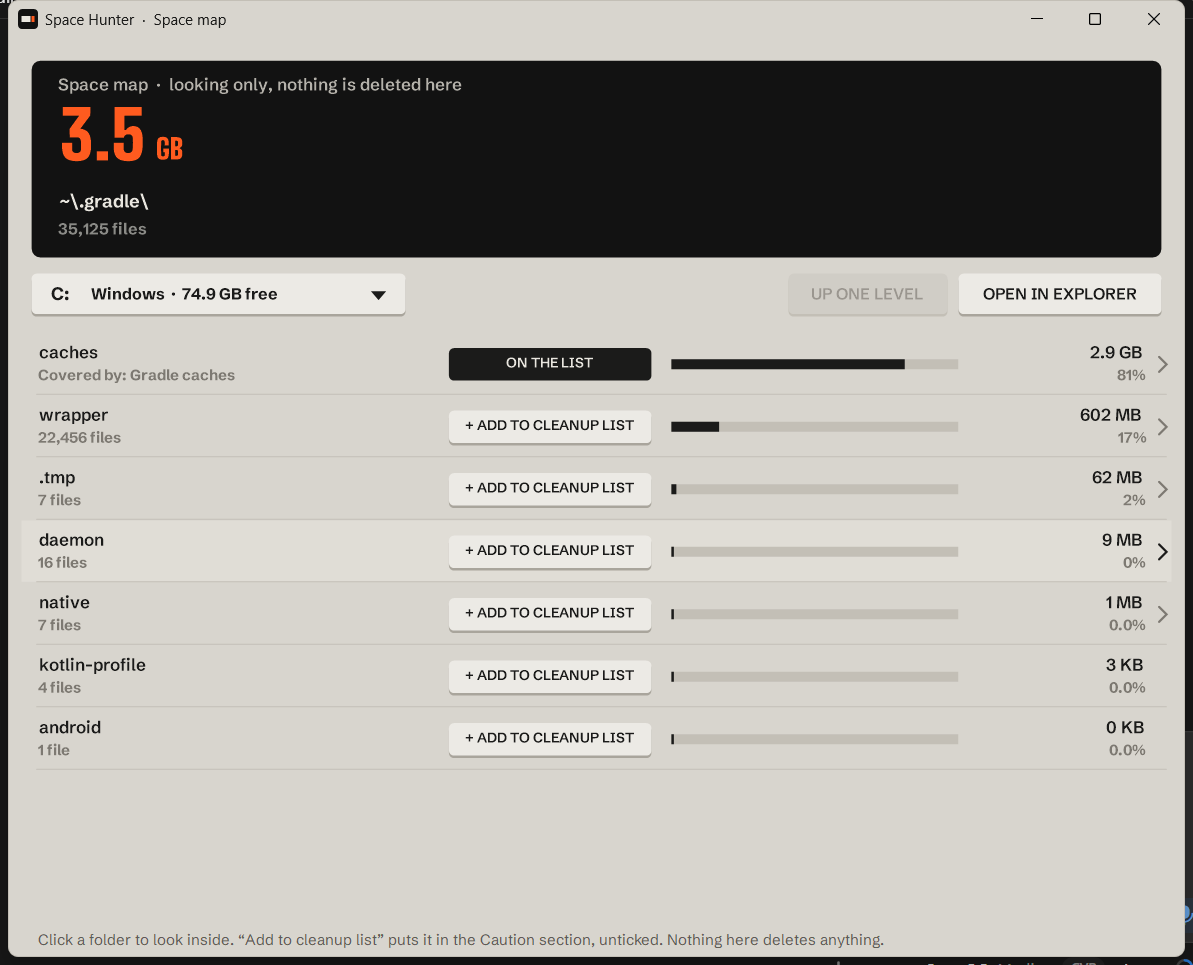
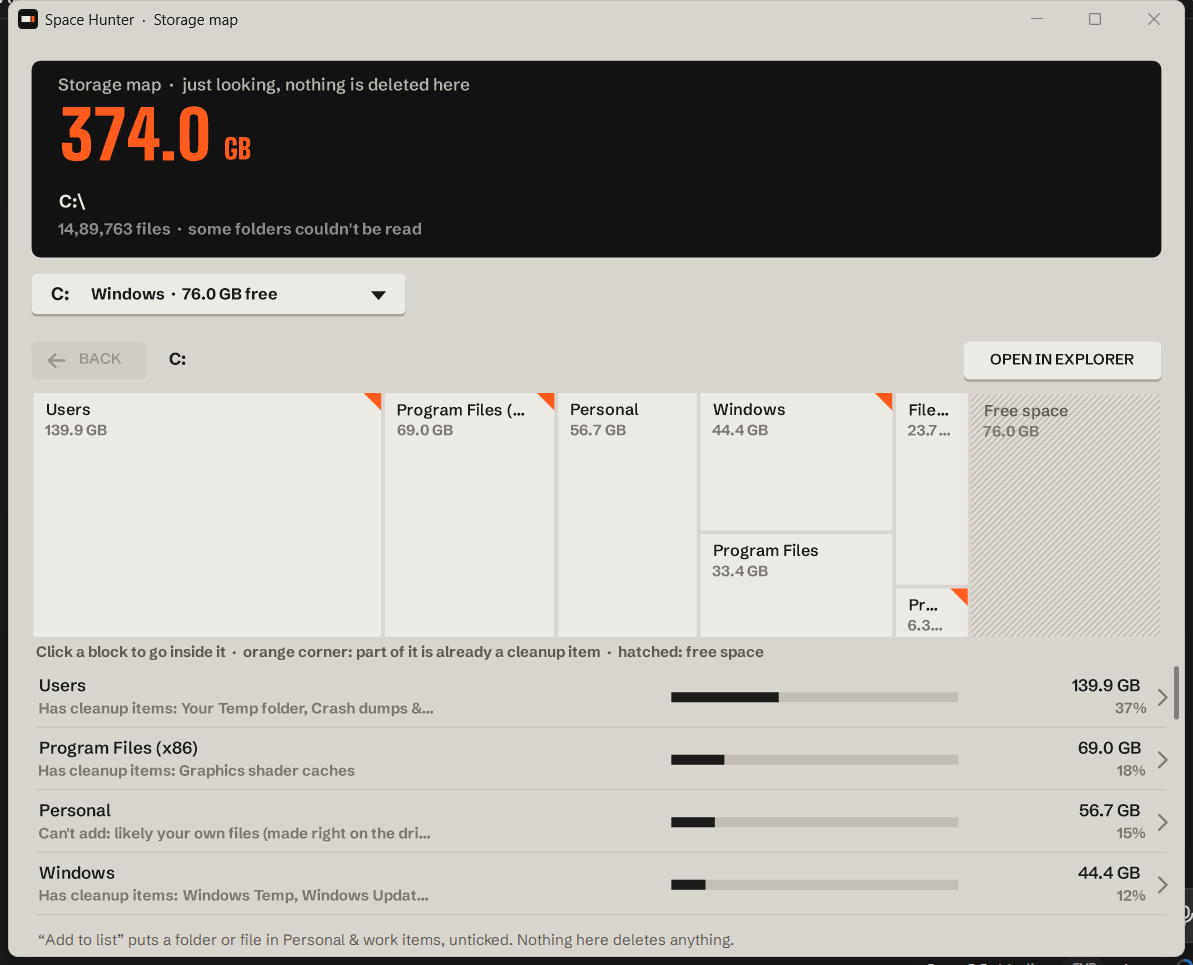
Open in Explorer / Finder / Files sits in the folder trail; README: current screenshots and Linux; dependency lock for Nix

diff --git a/mac/Sources/SpaceHunter.swift b/mac/Sources/SpaceHunter.swift
@@ -1597,7 +1597,6 @@ struct FinderView: View {
                 .disabled(scanner.running)
                 .anchorPreference(key: DriveKeyAnchor.self, value: .bounds) { $0 }
                 Spacer()
-                Button("Show in Finder") { if let c = current { NSWorkspace.shared.open(URL(fileURLWithPath: c.path)) } }.buttonStyle(KeyStyle()).disabled(current == nil)
             }
             if let c = current {
                 let isAdded = added.contains(c.path) || Custom.all.contains(c.path)
@@ -1622,7 +1621,7 @@ struct FinderView: View {
             } else {
                 Spacer()
             }
-            Text("\u{201C}Add to cleanup list\u{201D} puts a folder in Personal & work items, unticked. Nothing here deletes anything.")
+            Text("\u{201C}Add to list\u{201D} puts a folder or file in Personal & work items, unticked. Nothing here deletes anything.")
                 .font(Theme.sans(12)).foregroundColor(Theme.muted)
         }
         .padding(18).frame(minWidth: 760, minHeight: 520).background(Theme.chassis)
@@ -1735,6 +1734,8 @@ struct PathBar: View {
             if canAdd || isAdded {
                 Button(isAdded ? "Added  ·  remove" : "+ Add this folder") { toggle() }.buttonStyle(KeyStyle(toggled: isAdded))
             }
+            // open the folder you're looking at, beside its name in the trail
+            Button("Show in Finder") { NSWorkspace.shared.open(URL(fileURLWithPath: node.path)) }.buttonStyle(KeyStyle())
         }
     }
     func trail() -> [FolderNode] { var c: [FolderNode] = []; var n: FolderNode? = node; while let x = n { c.insert(x, at: 0); n = x.parent }; return c }

diff --git a/windows/src/Finder.cs b/windows/src/Finder.cs
@@ -47,17 +47,16 @@ namespace SpaceHunter
             headWrap.Controls.Add(head);
             var keys = new Panel { Dock = DockStyle.Top, Height = Theme.D(60), BackColor = Theme.Chassis };
             driveKey.Location = Theme.P(18, 12);
-            keys.Controls.Add(driveKey); keys.Controls.Add(openKey);   // going up lives in the path bar, right above the chart
-            keys.Resize += (s, e) => openKey.Location = new Point(keys.Width - openKey.Width - Theme.D(18), Theme.D(12));
+            keys.Controls.Add(driveKey);   // going up and "open in Explorer" live in the path bar, beside the folder they act on
             pathBar.Height = Theme.D(46);
             hint.Dock = DockStyle.Bottom; hint.Height = Theme.D(30); hint.Padding = Theme.Pad(20, 7, 0, 0); hint.Font = Theme.Sans(9f); hint.ForeColor = Theme.Muted; hint.UseMnemonic = false;
-            hint.Text = "“Add to cleanup list” puts a folder in Personal & work items, unticked. Nothing here deletes anything.";
+            hint.Text = "“Add to list” puts a folder or file in Personal & work items, unticked. Nothing here deletes anything.";
             list.Dock = DockStyle.Fill;
             Controls.Add(list); Controls.Add(map); Controls.Add(pathBar); Controls.Add(keys); Controls.Add(headWrap); Controls.Add(hint);
 
             driveKey.Click += (s, e) => OpenDrives();
             upKey.Click += (s, e) => { if (cur != null && cur.Parent != null) Go(cur.Parent); };
-            openKey.Click += (s, e) => { if (cur != null) try { Process.Start("explorer.exe", "\"" + cur.Path + "\""); } catch { } };
+            pathBar.OpenHere += (s, e) => { if (cur != null) try { Process.Start("explorer.exe", "\"" + cur.Path + "\""); } catch { } };
             list.Open += (s, e) => Go((FolderNode)s);
             map.Open += (s, e) => Go((FolderNode)s);
             pathBar.Navigate += (s, e) => Go((FolderNode)s);
@@ -524,9 +523,11 @@ namespace SpaceHunter
             Invalidate();
         }
         bool canAdd; public bool IsAdded;
-        public event EventHandler AddHere;
+        public event EventHandler AddHere, OpenHere;
+        // "Open in Explorer" at the right of the trail, for the folder you're looking at
+        RectangleF OpenKey() { return new RectangleF(LW - 18 - 158, 7, 158, 30); }
         // "+ Add this folder" at the right, for a folder you've opened (so you don't have to go back to add it)
-        RectangleF AddKey() { return new RectangleF(LW - 18 - 160, 7, 160, 30); }
+        RectangleF AddKey() { return new RectangleF(OpenKey().X - 8 - 160, 7, 160, 30); }
         bool ShowAdd { get { return node != null && (canAdd || IsAdded); } }
 
         RectangleF Back() { return new RectangleF(18, 7, 92, 30); }
@@ -537,6 +538,7 @@ namespace SpaceHunter
             float x = X(e), y = Y(e); int h = -1;
             if (CanGoBack && Back().Contains(x, y)) h = 0;
             else if (ShowAdd && AddKey().Contains(x, y)) h = 1000;
+            else if (node != null && OpenKey().Contains(x, y)) h = 1001;
             else for (int i = 0; i < hits.Count; i++) if (hits[i].Key.Contains(x, y)) h = i + 1;
             if (h != hover) { hover = h; Cursor = h >= 0 ? Cursors.Hand : Cursors.Default; Invalidate(); }
         }
@@ -547,6 +549,7 @@ namespace SpaceHunter
             float x = X(e), y = Y(e);
             if (CanGoBack && Back().Contains(x, y)) { Navigate(node.Parent, EventArgs.Empty); return; }
             if (ShowAdd && AddKey().Contains(x, y)) { if (AddHere != null) AddHere(this, EventArgs.Empty); return; }
+            if (OpenKey().Contains(x, y)) { if (OpenHere != null) OpenHere(this, EventArgs.Empty); return; }
             foreach (var h in hits) if (h.Key.Contains(x, y)) { Navigate(h.Value, EventArgs.Empty); return; }
         }
 
@@ -571,7 +574,14 @@ namespace SpaceHunter
 
             // the trail: drive > folder > folder; a long trail keeps the drive and the last folders
             var chain = new List<FolderNode>(); for (var n = node; n != null; n = n.Parent) chain.Insert(0, n);
-            float x = b.Right + 16, maxX = LW - 18 - (ShowAdd ? 176 : 0), y = 13;
+            float x = b.Right + 16, maxX = OpenKey().X - 16 - (ShowAdd ? 168 : 0), y = 13;
+            {
+                var o = OpenKey();
+                using (var p = Theme.Round(new RectangleF(o.X, o.Y + 2, o.Width, o.Height), 4)) using (var br = new SolidBrush(Theme.KeyShadow)) g.FillPath(br, p);
+                using (var p = Theme.Round(o, 4)) using (var br = new SolidBrush(hover == 1001 ? ControlPaint.Light(Theme.Key, 0.25f) : Theme.Key)) g.FillPath(br, p);
+                using (var br = new SolidBrush(Theme.Ink)) using (var sf = new StringFormat { Alignment = StringAlignment.Center, LineAlignment = StringAlignment.Center })
+                    g.DrawString("OPEN IN EXPLORER", fKey, br, o, sf);
+            }
             if (ShowAdd)
             {
                 var a = AddKey();

diff --git a/linux/src/storage.rs b/linux/src/storage.rs
@@ -187,9 +187,7 @@ pub fn open(parent: &gtk::ApplicationWindow, cats: Vec<Cat>, on_change: Rc<dyn F
     pl.append(&place_lbl); pl.append(&label("\u{25BE}", "drive-text"));
     place_btn.set_child(Some(&pl)); place_btn.set_size_request(320, -1);
     keys.append(&place_btn);
-    keys.append(&hspacer());
-    let open_files = key("open in files", &[]);
-    keys.append(&open_files);
+    let open_files = key("open in files", &[]);   // sits in the path bar, beside the folder it opens
     v.append(&keys);
     let pop = gtk::Popover::new(); pop.set_parent(&place_btn); pop.set_has_arrow(false);
     let pop_box = gtk::Box::new(gtk::Orientation::Vertical, 2);
@@ -200,7 +198,7 @@ pub fn open(parent: &gtk::ApplicationWindow, cats: Vec<Cat>, on_change: Rc<dyn F
     let back = key("\u{2190}  back", &[]);
     let crumbs = gtk::Box::new(gtk::Orientation::Horizontal, 2); crumbs.set_hexpand(true);
     let add_here = key("+ add this folder", &[]);
-    pb.append(&back); pb.append(&crumbs); pb.append(&add_here);
+    pb.append(&back); pb.append(&crumbs); pb.append(&add_here); pb.append(&open_files);
     v.append(&pb);
     // the block chart
     let chart = gtk::DrawingArea::new(); chart.set_content_height(230);

diff --git a/README.md b/README.md
@@ -28,6 +28,10 @@ Windows: `SpaceHunter.exe` · Mac: `SpaceHunter-mac.zip` · Linux: `SpaceHunter-
 
 ![The Storage map](docs/screenshots/windows-space-map.png)
 
+The same app on Linux (and on Mac), with the same names, look and features:
+
+![Space Hunter on Linux](docs/screenshots/linux-main.png)
+
 ## Safe by design
 
 - Files in use, or changed more recently than an item's age setting, are skipped, never forced.
